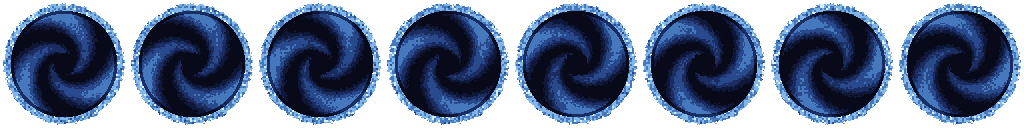
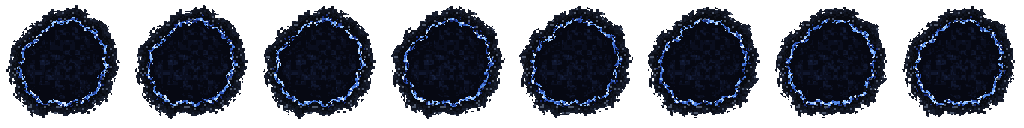
Dice Portal: the portal is a hole burned through the air in a dark blue tint, and the die falls as a real body after its strike. The portal is drawn like the campaign map's burn, texel by texel in a few muted tones (Tools/dice_portal_texture.py): a ragged edge with a cold blue-white burning line tha

diff --git a/Assets/Game/Combat/Scripts/Spells/Flick.cs b/Assets/Game/Combat/Scripts/Spells/Flick.cs
@@ -73,13 +73,13 @@ public class FlickSettings
     [FoldoutGroup("Out of his reach"), Tooltip("One of these, at random, each time the die strikes or bounces.")] public AudioClip[] dieKnocks = new AudioClip[0];
     [FoldoutGroup("Out of his reach"), Tooltip("The die tumbling away after it strikes.")] public AudioClip dieRollSound;
     [FoldoutGroup("Out of his reach"), Range(0, 1)] public float dieVolume = 1f;
-    [FoldoutGroup("Portal"), ShowIf("@reach == FlickReach.Portal"), Tooltip("The portal's look: a strip of vortex frames (Tools/dice_portal_texture.py) on the Portal Vortex shader, copied per portal and stepped through.")]
+    [FoldoutGroup("Portal"), ShowIf("@reach == FlickReach.Portal"), Tooltip("The portal's look: a strip of frames of a hole burned through the air (Tools/dice_portal_texture.py) on the Portal Vortex shader, copied per portal and stepped through.")]
     public Material portalMaterial;
     [FoldoutGroup("Portal"), ShowIf("@reach == FlickReach.Portal"), Min(1), Tooltip("Frames side by side in the material's texture.")]
     public int portalFrames = 8;
     [FoldoutGroup("Portal"), ShowIf("@reach == FlickReach.Portal"), Min(1f), Tooltip("Frames a second.")]
     public float portalFps = 12f;
-    [FoldoutGroup("Portal"), ShowIf("@reach == FlickReach.Portal")] public Color portalColor = new(.35f, .65f, 1f, 1f);
+    [FoldoutGroup("Portal"), ShowIf("@reach == FlickReach.Portal")] public Color portalColor = new(.32f, .48f, 1f, 1f);
     [FoldoutGroup("Portal"), ShowIf("@reach == FlickReach.Portal"), Min(.2f), Tooltip("The portal's radius (metres).")]
     public float portalRadius = .8f;
     [FoldoutGroup("Portal"), ShowIf("@reach == FlickReach.Portal"), Min(1.5f), Tooltip("How far from the enemy it opens at most (metres); closer where the room is too small.")]
@@ -446,81 +446,71 @@ public class Flick : MonoBehaviour
         return at > 0f ? Flat(way - toPlayer * at * 1.2f) : way;
     }
 
-    // The die strikes the enemy (knocking it across the room), bounces off away from the player, tumbles and is gone.
+    // The die strikes the enemy (knocking it across the room), then falls as a real body: it springs back off the enemy,
+    // drops with gravity, bounces and rolls to rest on the floor (its box collider and a rigidbody, kept
+    // out of the players' and the living's way like a body's pieces), lies there a moment and is gone.
     IEnumerator DieStrike(Transform die, Held held, Vector3 v, float g, Vector3 spinAxis)
     {
         Release(held);
         if (die != null) { Hit(die.position); Knock(die.position); }
         if (target != null && target.IsAlive) StartCoroutine(Fly(target, KnockWay(v), power, false));
         if (die == null) { flying = false; yield break; }
+        foreach (var c in die.GetComponentsInChildren<Collider>(true)) { c.enabled = true; c.sharedMaterial = DieBounce; }
+        var body = die.GetComponent<Rigidbody>();
+        if (body == null) body = die.gameObject.AddComponent<Rigidbody>();
+        body.isKinematic = false;
+        body.mass = 8f;
+        body.angularDamping = .6f;
+        body.interpolation = RigidbodyInterpolation.Interpolate;
+        body.collisionDetectionMode = CollisionDetectionMode.ContinuousDynamic;
+        DeathPhysics.IgnorePlayers(new List<Rigidbody> { body });
+        // It springs back off the enemy the way it came, turned off the player (back toward them it bounced into the
+        // player's face).
+        var back = -Flat(v);
+        var toPlayer = Flat(caster.transform.position - die.position);
+        float atPlayer = Vector3.Dot(back, toPlayer);
+        if (atPlayer > 0f) back = Flat(back - toPlayer * atPlayer * 1.3f);
+        body.linearVelocity = back * DieRebound + Vector3.up * 5.5f;
+        body.angularVelocity = spinAxis.normalized * 9f + UnityEngine.Random.insideUnitSphere * 4f;
+        // A knock each time it lands hard, the roll as it first meets the floor; it lies still a moment, then shrinks away.
         bool rolling = false;
-        // It bounces off and tumbles away, then is gone.
-        // Away from the player whatever way it came (back toward him it bounced into the player's face).
-        var away = Flat(die.position - caster.transform.position);
-        var bounce = away * new Vector2(v.x, v.z).magnitude * .3f; bounce.y = Mathf.Abs(v.y) * .3f + 3f;
-        // It bounces off the floor where its lowest corner meets it (a big die's middle is well above the floor).
-        var drawn = die.GetComponentInChildren<Renderer>();
-        for (float u = 0; u < 1.4f && die != null; u += Time.deltaTime)
+        float lastVy = body.linearVelocity.y, still = 0f;
+        for (float t = 0f; t < 4f && die != null; t += Time.deltaTime)
         {
-            bounce.y -= g * Time.deltaTime;
-            var step = bounce * Time.deltaTime;
-            float floorY = FloorUnder(die.position + new Vector3(step.x, 0f, step.z));
-            float bottom = drawn != null ? drawn.bounds.min.y : die.position.y - .3f;
-            if (bounce.y < 0f && bottom + step.y < floorY)
+            yield return new WaitForFixedUpdate();
+            if (die == null) break;
+            // Heavier than the world's pull (a die this big falling at plain gravity looks slow, and leans on edges).
+            body.AddForce(Physics.gravity * DieExtraGravity, ForceMode.Acceleration);
+            float vy = body.linearVelocity.y;
+            if (lastVy < -1.5f && vy > lastVy + 1.5f)
             {
-                step.y = floorY - bottom;
-                bounce.y = -bounce.y * .35f; bounce.x *= .6f; bounce.z *= .6f;
-                if (bounce.y > 1f) Knock(die.position);
-                else bounce.y = 0f;
+                Knock(die.position);
                 if (!rolling) { rolling = true; DieSound(settings.dieRollSound, die.position); }
             }
-            die.position += step;
-            if (rolling && bounce.y == 0f)
-            {
-                // On the floor: it slows, turning only as fast as it rolls, and settles flat on a face.
-                float slow = Mathf.Clamp01(1f - 5f * Time.deltaTime);
-                bounce.x *= slow; bounce.z *= slow;
-                float speed = new Vector2(bounce.x, bounce.z).magnitude;
-                die.rotation = Quaternion.AngleAxis(speed * 120f * Time.deltaTime, spinAxis) * die.rotation;
-                die.rotation = Quaternion.Slerp(die.rotation, FlatOnFace(die.rotation), 8f * Time.deltaTime);
-            }
-            else die.rotation = Quaternion.AngleAxis(400f * Time.deltaTime, spinAxis) * die.rotation;
-            yield return null;
+            lastVy = vy;
+            still = body.linearVelocity.sqrMagnitude < .02f && body.angularVelocity.sqrMagnitude < .05f ? still + Time.fixedDeltaTime : 0f;
+            if (still > .6f) break;
         }
         if (die != null)
         {
+            body.isKinematic = true;
             var start = die.localScale;
             for (float u = 0; u < .25f && die != null; u += Time.deltaTime) { die.localScale = start * (1f - u / .25f); yield return null; }
             if (die != null) Destroy(die.gameObject);
         }
     }
 
-    // The turn nearest to this one that lies flat on a face: its side most nearly up turned straight up.
-    static Quaternion FlatOnFace(Quaternion turn)
-    {
-        Vector3 best = Vector3.up; float most = float.MinValue;
-        foreach (var axis in new[] { Vector3.up, Vector3.down, Vector3.right, Vector3.left, Vector3.forward, Vector3.back })
-        {
-            var world = turn * axis;
-            if (world.y > most) { most = world.y; best = world; }
-        }
-        return Quaternion.FromToRotation(best, Vector3.up) * turn;
-    }
+    // How much more than the world's gravity pulls the die down after its strike, and how fast it springs back off the
+    // enemy (metres a second, level).
+    const float DieExtraGravity = 1.5f, DieRebound = 4f;
 
-    // The height of the floor under a point (from a little above it; bodies and triggers left out); far below when none.
-    static readonly RaycastHit[] floorHits = new RaycastHit[16];
-    static float FloorUnder(Vector3 at)
+    // The die's bounce off floors and walls: a little lively, gripping enough to roll rather than slide.
+    static PhysicsMaterial dieBounce;
+    static PhysicsMaterial DieBounce => dieBounce != null ? dieBounce : dieBounce = new PhysicsMaterial("Die bounce")
     {
-        int n = Physics.RaycastNonAlloc(at + Vector3.up * 1.5f, Vector3.down, floorHits, 12f, ~0, QueryTriggerInteraction.Ignore);
-        float best = float.MinValue;
-        for (int i = 0; i < n; i++)
-        {
-            var h = floorHits[i];
-            if (h.collider.GetComponentInParent<Character>() != null || DeathPhysics.IsCorpse(h.collider)) continue;
-            if (h.point.y > best && h.point.y <= at.y + .5f) best = h.point.y;
-        }
-        return best == float.MinValue ? at.y - 100f : best;
-    }
+        bounciness = .3f, dynamicFriction = .6f, staticFriction = .7f,
+        bounceCombine = PhysicsMaterialCombine.Maximum, frictionCombine = PhysicsMaterialCombine.Average,
+    };
 
     // ── The portal ──────────────────────────────────────────────────
 
@@ -683,8 +673,8 @@ public class Flick : MonoBehaviour
         return mesh;
     }
 
-    // While it lives: the vortex turns (its frames stepped through at their own rate, so its pixels stay whole), its light
-    // parts pulse, and the light follows the portal's size.
+    // While it lives: the burn's embers flicker (its frames stepped through at their own rate, so its pixels stay whole),
+    // its light parts pulse, and the light follows the portal's size.
     IEnumerator Swirl(Transform portal, Material vortex, Light glow)
     {
         int frames = Mathf.Max(1, settings.portalFrames);

diff --git a/Tools/dice_portal_texture.py b/Tools/dice_portal_texture.py
@@ -1,49 +1,66 @@
 # python Tools/dice_portal_texture.py <out.png>
-# The Dice Portal's vortex: a strip of 8 frames (128 x 128 each) of a dark swirl turning into its middle inside a
-# crackling rim, in a few flat blues laid texel by texel (no smooth gradients), with alpha cut raggedly at the edge.
-# The arms turn a third of a circle over the 8 frames, so with three arms the strip loops.
+# The Dice Portal: a hole burned through the air, as the campaign map burns away: a ragged edge with a thin line of
+# embers, a charred rim flecked with ash outside it, and dim light inside, all in a dark blue tint. A strip
+# of 8 frames (128 x 128 each): the embers flicker and creep and the edge wavers a little. Drawn texel by texel in the
+# house style: a few muted tones laid in small clusters, dark at the crease, lit at the edge, no smooth gradients.
 import math, random, sys
 from PIL import Image
 
 FRAMES, SIZE = 8, 128
-# Deep to light: the hole, the dark of the swirl, its arms, the rim, the rim's sparks.
-PALETTE = [(8, 10, 26), (16, 24, 58), (26, 44, 96), (40, 74, 140), (70, 120, 190), (128, 182, 232), (214, 240, 255)]
+# Everything in a dark blue tint (the user's choice, 2026-10-29).
+# The light through the hole, deep to bright (muted navy).
+INSIDE = [(6, 8, 18), (10, 14, 30), (16, 23, 46), (24, 35, 66), (36, 52, 92)]
+# The burning line, cold: dim blue to white-hot.
+EMBER = [(28, 46, 120), (46, 84, 182), (82, 136, 230), (150, 196, 255), (220, 236, 255)]
+# The charred rim, blue-black to slate ash.
+CHAR = [(8, 10, 16), (15, 19, 30), (24, 30, 46), (38, 46, 66), (78, 88, 108)]
 
 def noise(x, y, seed):
-    r = random.Random(x * 73856093 ^ y * 19349663 ^ seed * 83492791)
-    return r.random()
+    return random.Random(x * 73856093 ^ y * 19349663 ^ seed * 83492791).random()
+
+def wave(a, seed, lobes):
+    # A ragged closed outline: a few sines round the circle with seeded phases.
+    r = random.Random(seed)
+    return sum(math.sin(a * k + r.random() * 6.283) * (r.random() * .5 + .5) / k for k in lobes)
 
 def frame(f):
     img = Image.new("RGBA", (SIZE, SIZE), (0, 0, 0, 0))
     px = img.load()
-    phase = f / FRAMES * (2 * math.pi / 3)
     c = (SIZE - 1) / 2
+    creep = f / FRAMES * 6.283
     for y in range(SIZE):
         for x in range(SIZE):
             dx, dy = (x - c) / c, (y - c) / c
             r = math.hypot(dx, dy)
             a = math.atan2(dy, dx)
-            # The ragged edge: the rim's outer line wavers texel to texel (fixed per texel, so it doesn't boil).
-            edge = .965 - noise(x // 3, y // 3, 7) * .035 - noise(x, y, 8) * .012
-            if r > edge:
-                continue
-            n = noise(x // 2, y // 2, f + 11)   # the grain that changes as it turns, in small clusters
-            g = noise(x // 2, y // 2, 3)        # fixed grain
-            if r > .84:
-                # The rim: light, broken by darker flecks; sparks now and then.
-                t = 4 + (1 if n > .35 else 0) + (1 if n > .9 else 0) - (1 if g < .15 else 0)
+            # Where the burn has eaten to: ragged, wavering a little as it burns (fixed per texel cluster).
+            edge = .68 + .09 * wave(a, 11, (2, 3, 5, 9)) + .02 * math.sin(a * 13 + creep) + (noise(x // 3, y // 3, 4) - .5) * .05
+            # How far the char reaches past it.
+            outer = edge + .17 + .05 * wave(a, 23, (4, 7, 11)) + (noise(x // 3, y // 3, 9) - .5) * .06
+            n = noise(x // 2, y // 2, f + 31)   # flicker, in small clusters
+            g = noise(x // 2, y // 2, 5)        # fixed grain
+            if r < edge - .045:
+                # Inside: dark, the room's warm light coming through in patches (clusters of a few tones, no smooth
+                # falloff), a darker crease along the burnt edge.
+                patch = noise(x // 5, y // 5, 17) * .6 + noise(x // 3, y // 3, 19) * .4
+                v = patch * 4.4 - 1.1 + (g - .5) * .9 + (n - .5) * .3 - r * .8
+                if r > edge - .12: v -= 1.4
+                col = INSIDE[int(max(0, min(4, v)))]
+            elif r < edge:
+                # The burning line: embers, hotter where the flicker says, now and then a dark gap.
+                v = n * 4.6 + g * .8 - .4
+                col = EMBER[int(max(0, min(4, v)))]
+                if n < .1: col = CHAR[1]
+            elif r < outer:
+                # The char: black at the embers, browner and ash-flecked further out, ragged at its edge.
+                t = (r - edge) / max(.02, outer - edge)
+                v = t * 2.6 + (g - .5) * 1.4
+                col = CHAR[int(max(0, min(3, v)))]
+                if g > .93: col = CHAR[4]                      # ash
+                if t < .25 and n > .9: col = EMBER[0]          # a glowing fleck just behind the line
             else:
-                # The swirl: three arms winding in (log spiral), lighter toward the rim, a dark hole in the middle.
-                arm = math.cos(3 * (a + 1.6 * math.log(max(r, .02))) - phase * 3)
-                v = .5 + .5 * arm
-                v = v * (.35 + .75 * r) + (n - .5) * .16
-                if r < .16 + g * .04:
-                    v *= .25
-                t = int(max(0, min(4, v * 5.2)))
-                # A dark line just inside the rim (the rim's crease).
-                if .79 < r <= .84:
-                    t = max(0, t - 2)
-            px[x, y] = PALETTE[t] + (255,)
+                continue
+            px[x, y] = col + (255,)
     return img
 
 out = Image.new("RGBA", (SIZE * FRAMES, SIZE), (0, 0, 0, 0))

diff --git a/Assets/Game/Combat/Scripts/Editor/NewSpellsSetup.cs b/Assets/Game/Combat/Scripts/Editor/NewSpellsSetup.cs
@@ -252,7 +252,8 @@ public static class NewSpellsSetup
         Folder(Spells + name);
         Copy("Die Throw/Die Throw Hand.prefab", $"{name}/{name} Hand.prefab");
         Copy("Die Throw/Die Throw Mark.prefab", $"{name}/{name} Mark.prefab");
-        // The vortex: its frames (Tools/dice_portal_texture.py) point-filtered on the Portal Vortex shader.
+        // The portal: a hole burned through the air, its frames (Tools/dice_portal_texture.py) point-filtered on the Portal
+        // Vortex shader.
         string texturePath = $"{Spells}{name}/{name} vortex.png", materialPath = $"{Spells}{name}/{name} vortex.mat";
         if (AssetImporter.GetAtPath(texturePath) is TextureImporter vortexImporter)
         {
@@ -278,10 +279,11 @@ public static class NewSpellsSetup
             s.flick = JsonUtility.FromJson<FlickSettings>(JsonUtility.ToJson(dieThrow.flick));
             var f = s.flick;
             f.reach = FlickReach.Portal; f.mark = Visual($"{name}/{name} Mark.prefab");
+            f.dieScale = 1f;   // a third smaller than Die Throw's: it lands close in front of the player
             f.portalMaterial = vortex; f.portalFrames = 8; f.portalFps = 12f;
-            f.portalColor = new Color(.35f, .65f, 1f); f.portalRadius = .9f; f.portalDistance = 5.5f;
+            f.portalColor = new Color(.32f, .48f, 1f); f.portalRadius = .9f; f.portalDistance = 5.5f;
             f.portalOpenSeconds = .35f; f.portalHoldSeconds = .3f; f.portalCloseSeconds = .3f; f.portalDieSpeed = 20f; f.portalLight = 6f;
-            f.portalOpenSound = Clip("Magic/Mgc_Water_Cast_02"); f.portalShootSound = Clip("Weapons/Wpn_Whoosh_02"); f.portalCloseSound = Clip("Magic/Mgc_Electric_Cast_Stop_01"); f.portalVolume = .9f;
+            f.portalOpenSound = Clip("Magic/Mgc_Fire_Cast_Start_01"); f.portalShootSound = Clip("Weapons/Wpn_Whoosh_02"); f.portalCloseSound = Clip("Magic/Mgc_Fire_Cast_Stop_01"); f.portalVolume = .9f;
             f.lines = new[] { "Heads up.", "Let's see what you roll.", "From over here." };
             s.chargeSound = Clip("Magic/Mgc_Water_Cast_01"); s.releaseSound = null; s.impactSound = null; s.flightSound = null;
         });
